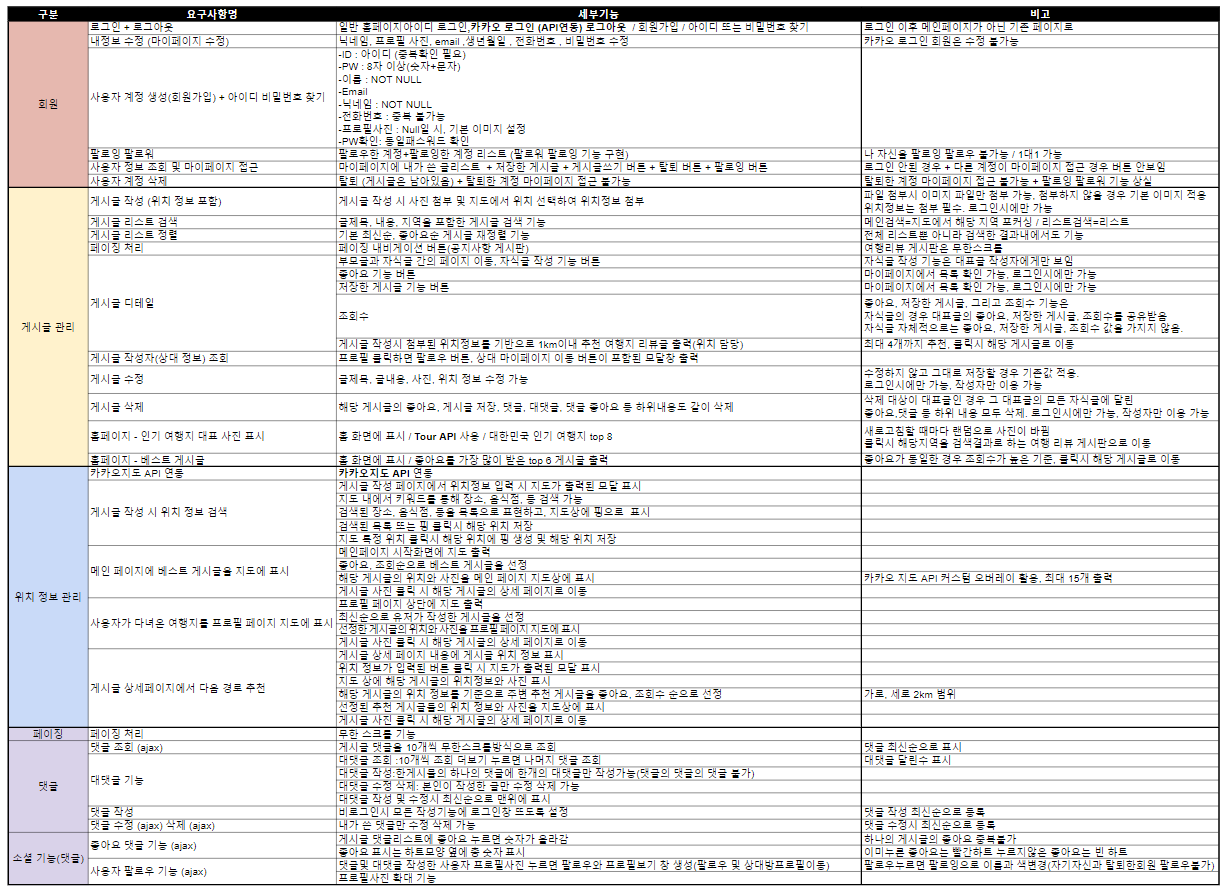
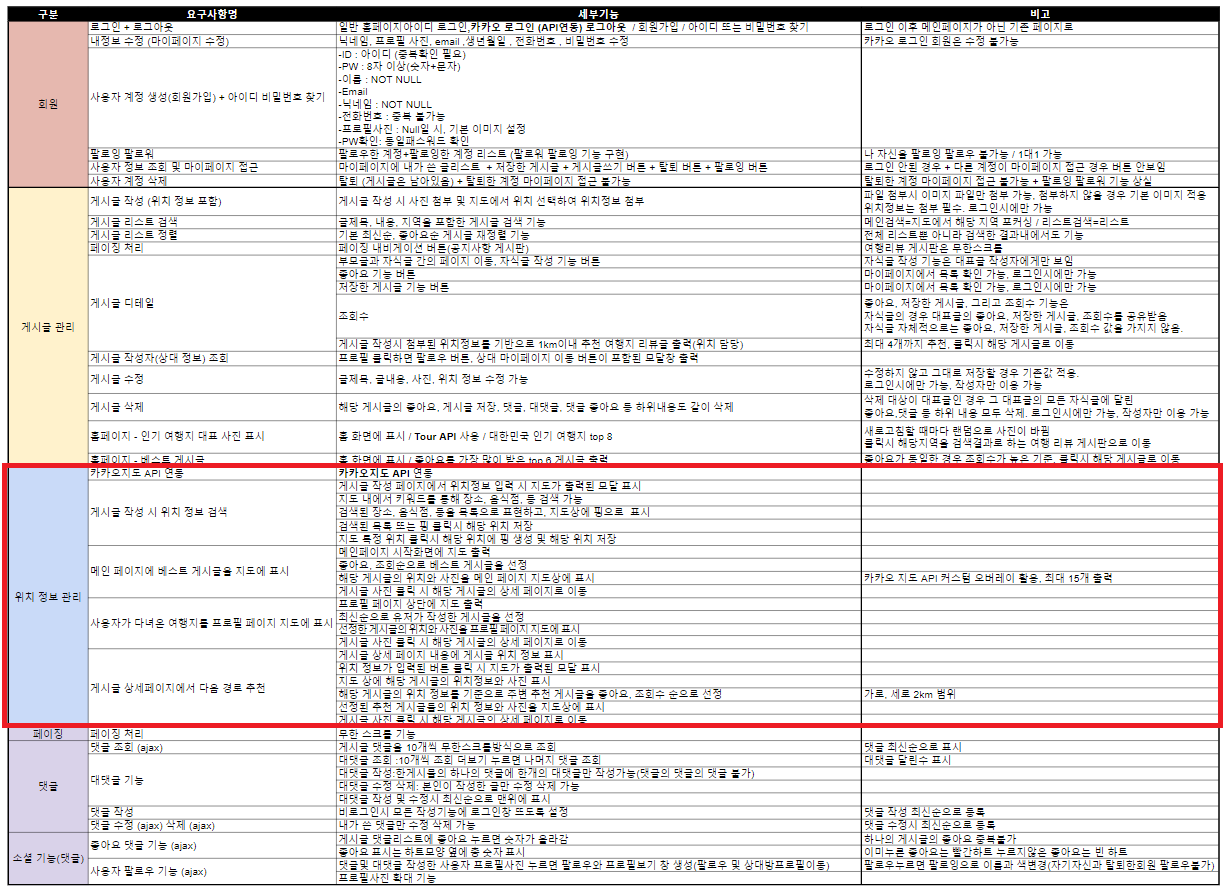
요구사항 정의 이미지 수정 (빨간 박스)

Changed region(s): [[0.0, 0.5146, 1.0, 0.8173]]

diff --git a/_posts/2024-09-03-프로젝트-PIC-MAP-포트폴리오.md b/_posts/2024-09-03-프로젝트-PIC-MAP-포트폴리오.md
@@ -51,11 +51,15 @@ GitHub URL : [**https://github.com/PARK-CHAN-SOL/PicMap**](https://github.com/PA
 #### **2. 프로젝트 상세 설계**
 
 ##### **요구사항 정의**
+ - 전체 요구사항
 ![요구사항 정의][요구사항 정의 이미지]
+ - 주 담당 파트 요구사항
 ![요구사항 정의 찬솔][요구사항 정의 찬솔 이미지]
   
 ##### **WBS**
+ - 전체 WBS
 ![WBS][WBS 이미지]  
+ - 주 담당 파트 WBS
 ![WBS 찬솔][WBS 찬솔 이미지]
    
 ##### **데이터베이스 정의**
@@ -106,36 +110,40 @@ GitHub URL : [**https://github.com/PARK-CHAN-SOL/PicMap**](https://github.com/PA
  - "위치" 버튼 클릭시 출력되는 지도 모달 내에서 찾고자 하는 위치 검색 가능   
    
 #### **4. 트러블 슈팅**
- 1. 게시글 리스트의 무한스크롤 구현시 발생한 문제
+ * 게시글 리스트의 무한스크롤 구현시 발생한 문제  
   * 게시글의 순서가 매번 다르게 로딩되는 문제가 발생함  
   * fetch 기능을 활용해 비동기식으로 리스트를 불러오는 도중 발생한 문제임을 파악함  
   * fetch구문을 async 함수 내부에 위치시키고, await를 사용하여 순서대로 게시글이 로딩되게 처리함  
-
- 2. 썸머노트 위지위그에디터 구현시 발생한 문제
-  * 게시글 작성시 게시글 내용(텍스트) 작성 란에 이미지를 드래그 드랍하여 입력할 수 있는 문제 발생    
+  
+  
+ * 썸머노트 위지위그에디터 구현시 발생한 문제  
+  * 게시글 작성시 게시글 내용(텍스트) 작성 란에 이미지를 드래그 드랍하여 입력할 수 있는 문제 발생  
   * 썸머노트에서 제공하는 이미지 삽입 이벤트를 활용하여 이미지 삽입 이벤트 발생시 해당 이벤트를 중지하도록 처리함  
-
- 3. 모달 내부 지도 출력시 발생한 문제  
+  
+  
+ * 모달 내부 지도 출력시 발생한 문제  
   * 모달 내부에서 지도 이미지가 불러와지지 않는 문제가 발생함  
   * 카카오 지도 API에서 제공하는 모달 버튼에 이벤트를 부여하여 문제를 해결하고자 하였으나 모달이 화면에 출력되는데에 시간 지연이 존재하여 해당 방법만으로는 해결에 어려움이 있었음  
   * 자바스크립트의 MutaionObserver 기능을 활용하여 모달창의 display 속성이 바뀔 때 relayout 함수가 호출되도록 개선하여 문제를 해결함  
-
- 4. 게시글 리스트 정렬 방식 변경시 발생한 문제
+  
+  
+ * 게시글 리스트 정렬 방식 변경시 발생한 문제  
   * 게시글 리스트의 정렬 방식 변경시 html 소스 코드 상에는 객체가 존재하나 화면상에 출력되지 않는 문제가 발생함  
-  * 리스트 로딩시 애니메이션 등은 외부 템플릿의 css, js를 사용하였는데, 한번 배치된 리스트를 재배치할수 없게 설계되어있음을 확인함    
+  * 리스트 로딩시 애니메이션 등은 외부 템플릿의 css, js를 사용하였는데, 한번 배치된 리스트를 재배치할수 없게 설계되어있음을 확인함   
   * 로딩 애니메이션 및 스타일 등을 담당하는 css, js 코드를 분석하여 동일한 기능을 하는 코드를 재작성하여 문제를 해결함   
-
+  
+  
 #### **5. 느낀점**
 
- 1. 팀워크의 중요성을 깊이 실감했습니다. 프로젝트의 성공은 각자의 역할에 충실하면서도 팀원 간의 소통과 협력이 원활하게 이루어질 때 가능하다는 것을 배웠습니다. 기능 구현을 맡은 팀원들이 각자 맡은 부분을 정확히 수행했지만, 서로의 작업을 이해하고 도움을 주는 과정이 매우 중요했습니다.  
+ * 팀워크의 중요성을 깊이 실감했습니다. 프로젝트의 성공은 각자의 역할에 충실하면서도 팀원 간의 소통과 협력이 원활하게 이루어질 때 가능하다는 것을 배웠습니다. 기능 구현을 맡은 팀원들이 각자 맡은 부분을 정확히 수행했지만, 서로의 작업을 이해하고 도움을 주는 과정이 매우 중요했습니다.  
 
- 2. 기술적인 도전이었습니다. 특히 무한 스크롤 구현, 카카오 지도 API 통합, 썸머노트 에디터의 문제 해결 등 여러 기술적 도전에 직면했습니다. 이러한 문제를 해결하면서 문제 해결 능력과 기술적 깊이를 더욱 키울 수 있었습니다. 특히 JavaScript의 async/await 사용, MutationObserver를 활용한 문제 해결 등은 큰 학습이었습니다.  
+ * 기술적인 도전이었습니다. 특히 무한 스크롤 구현, 카카오 지도 API 통합, 썸머노트 에디터의 문제 해결 등 여러 기술적 도전에 직면했습니다. 이러한 문제를 해결하면서 문제 해결 능력과 기술적 깊이를 더욱 키울 수 있었습니다. 특히 JavaScript의 async/await 사용, MutationObserver를 활용한 문제 해결 등은 큰 학습이었습니다.  
 
- 3. 사용자 경험(UX)과 인터페이스(UI) 디자인의 중요성을 느꼈습니다. 사용자 친화적인 UI/UX를 구현하기 위해 많은 고민을 했고, 특히 게시글 작성 및 댓글 기능, 프로필 페이지와 같은 핵심 기능에서 사용자 경험을 고려한 디자인이 얼마나 중요한지를 체감했습니다.  
+ * 사용자 경험(UX)과 인터페이스(UI) 디자인의 중요성을 느꼈습니다. 사용자 친화적인 UI/UX를 구현하기 위해 많은 고민을 했고, 특히 게시글 작성 및 댓글 기능, 프로필 페이지와 같은 핵심 기능에서 사용자 경험을 고려한 디자인이 얼마나 중요한지를 체감했습니다.  
 
- 4. 시간 관리의 중요성을 배웠습니다. 프로젝트 일정이 타이트했기 때문에 초기 계획이 중요했고, 주차별로 계획을 수정 보완하며 효율적으로 진행할 수 있었습니다. 기획 단계에서의 세심한 계획과 기한 내 마무리의 중요성을 다시 한번 깨달았습니다.  
+ * 시간 관리의 중요성을 배웠습니다. 프로젝트 일정이 타이트했기 때문에 초기 계획이 중요했고, 주차별로 계획을 수정 보완하며 효율적으로 진행할 수 있었습니다. 기획 단계에서의 세심한 계획과 기한 내 마무리의 중요성을 다시 한번 깨달았습니다.  
 
- 5. 마지막으로, 기술적 지식 외에도 프로젝트 관리 능력과 커뮤니케이션의 중요성을 느꼈습니다. 각자의 작업을 조율하고, 의견을 조율하며 최종 목표를 향해 나아가는 과정에서 많은 것을 배웠습니다. 앞으로의 프로젝트에서도 이러한 경험을 바탕으로 더욱 성장하고 발전할 수 있기를 바랍니다.  
+ * 마지막으로, 기술적 지식 외에도 프로젝트 관리 능력과 커뮤니케이션의 중요성을 느꼈습니다. 각자의 작업을 조율하고, 의견을 조율하며 최종 목표를 향해 나아가는 과정에서 많은 것을 배웠습니다. 앞으로의 프로젝트에서도 이러한 경험을 바탕으로 더욱 성장하고 발전할 수 있기를 바랍니다.  
 
 이 프로젝트를 통해 얻은 경험과 지식은 앞으로의 개발 및 협업에 큰 도움이 될 것입니다. 팀원들과 함께 만든 결과물에 대해 자부심을 느끼며, 다음 단계의 도전이 기대됩니다.
 
@@ -144,7 +152,7 @@ GitHub URL : [**https://github.com/PARK-CHAN-SOL/PicMap**](https://github.com/PA
 [프로젝트 진행 일정 링크]: https://park-chan-sol.github.io/posts/%ED%94%84%EB%A1%9C%EC%A0%9D%ED%8A%B8-PIC-MAP-%ED%8F%AC%ED%8A%B8%ED%8F%B4%EB%A6%AC%EC%98%A4/#%ED%94%84%EB%A1%9C%EC%A0%9D%ED%8A%B8-%EC%A7%84%ED%96%89-%EC%9D%BC%EC%A0%95
 [프로젝트 상세 설계 링크]: https://park-chan-sol.github.io/posts/%ED%94%84%EB%A1%9C%EC%A0%9D%ED%8A%B8-PIC-MAP-%ED%8F%AC%ED%8A%B8%ED%8F%B4%EB%A6%AC%EC%98%A4/#2-%ED%94%84%EB%A1%9C%EC%A0%9D%ED%8A%B8-%EC%83%81%EC%84%B8-%EC%84%A4%EA%B3%84
 [요구사항 정의 링크]: https://park-chan-sol.github.io/posts/%ED%94%84%EB%A1%9C%EC%A0%9D%ED%8A%B8-PIC-MAP-%ED%8F%AC%ED%8A%B8%ED%8F%B4%EB%A6%AC%EC%98%A4/#%EC%9A%94%EA%B5%AC%EC%82%AC%ED%95%AD-%EC%A0%95%EC%9D%98
-[WBS 링크]: https://park-chan-sol.github.io/posts/%ED%94%84%EB%A1%9C%EC%A0%9D%ED%8A%B8-PIC-MAP-%ED%8F%AC%ED%8A%B8%ED%8F%B4%EB%A6%AC%EC%98%A4/#WBS
+[WBS 링크]: https://park-chan-sol.github.io/posts/%ED%94%84%EB%A1%9C%EC%A0%9D%ED%8A%B8-PIC-MAP-%ED%8F%AC%ED%8A%B8%ED%8F%B4%EB%A6%AC%EC%98%A4/#wbs
 [데이터베이스 정의 링크]: https://park-chan-sol.github.io/posts/%ED%94%84%EB%A1%9C%EC%A0%9D%ED%8A%B8-PIC-MAP-%ED%8F%AC%ED%8A%B8%ED%8F%B4%EB%A6%AC%EC%98%A4/#%EB%8D%B0%EC%9D%B4%ED%84%B0%EB%B2%A0%EC%9D%B4%EC%8A%A4-%EC%A0%95%EC%9D%98
 [프로젝트 개발 환경 링크]: https://park-chan-sol.github.io/posts/%ED%94%84%EB%A1%9C%EC%A0%9D%ED%8A%B8-PIC-MAP-%ED%8F%AC%ED%8A%B8%ED%8F%B4%EB%A6%AC%EC%98%A4/#%ED%94%84%EB%A1%9C%EC%A0%9D%ED%8A%B8-%EA%B0%9C%EB%B0%9C-%ED%99%98%EA%B2%BD
 [기능 구현 링크]: https://park-chan-sol.github.io/posts/%ED%94%84%EB%A1%9C%EC%A0%9D%ED%8A%B8-PIC-MAP-%ED%8F%AC%ED%8A%B8%ED%8F%B4%EB%A6%AC%EC%98%A4/#3-%EA%B8%B0%EB%8A%A5-%EA%B5%AC%ED%98%84
